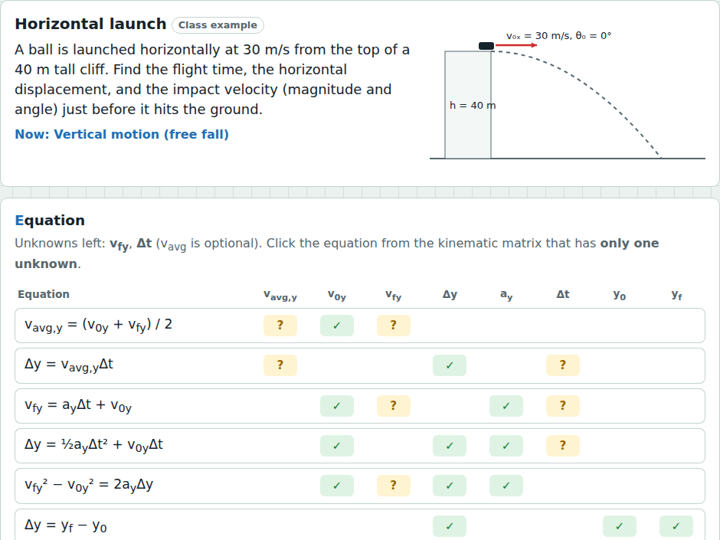
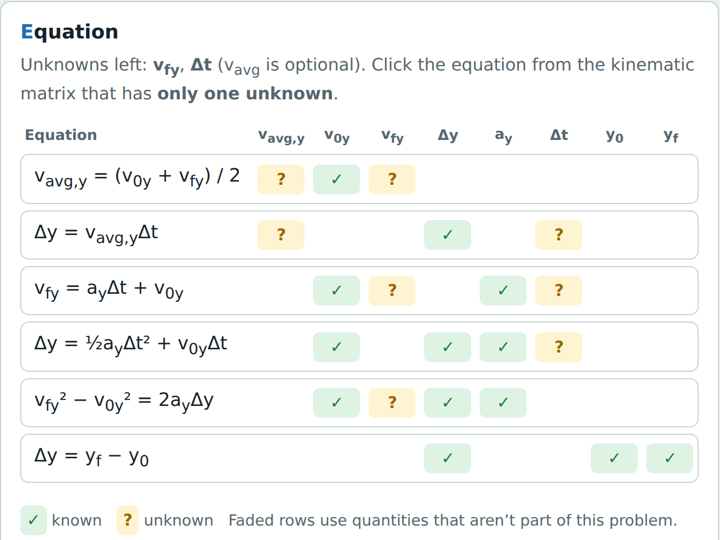
Updated GUESS Thumbnail

diff --git a/interactives/relationship-explorer.html b/interactives/relationship-explorer.html
@@ -130,7 +130,8 @@ tr.cur td{background:var(--accent-soft);font-weight:600}
 .pjgraphs svg{display:block;width:100%;height:auto}
 .pjgraphs text{font-family:var(--sans);fill:var(--muted)}
 .pjres{display:grid;grid-template-columns:1fr 1fr;gap:6px 18px}
-@media (max-width:620px){.pjres{grid-template-columns:1fr}}
+.pjres .sm2{visibility:hidden}
+@media (max-width:620px){.pjres{grid-template-columns:1fr}.pjres .sm2{visibility:visible}}
 .pjres .big{font-size:clamp(20px,2.8vw,28px)}
 details.der summary{cursor:pointer;font-weight:700;min-height:40px;display:flex;align-items:center;color:var(--accent);text-decoration:underline;text-underline-offset:3px}
 details.der summary:focus-visible{outline:3px solid var(--accent);outline-offset:2px;border-radius:4px}
@@ -646,11 +647,13 @@ function renderProjReadout(){
     h+='<label for="pjPx">Δx₂/Δx₁ =</label><input id="pjPx" type="text" autocomplete="off" spellcheck="false" value="'+esc(S.pjPred.x)+'"><button class="btn" id="predGo">Check</button></div>';
     if(S.pjFb)h+='<p class="fb bad">'+esc(S.pjFb)+'</p>';
   }else{
-    h+='<div class="pjres"><div><p class="big">'+esc(head)+' → t × '+esc(M.t.n===0?'1 (no change)':Ft.s)+'</p><p class="nums">t: '+fmt(A.t)+' s → '+fmt(B.t)+' s</p></div>';
-    h+='<div><p class="big">'+esc(head)+' → Δx × '+esc(Fx.s)+'</p><p class="nums">Δx: '+fmt(A.dx)+' m → '+fmt(B.dx)+' m</p></div></div>';
+    var tLine='t ∝ '+esc(M.t.n===0?'(no '+M.xs+')':relEq(relByN(M.t.n),M.xs,'t').replace('t = A',''))+' → t₂/t₁ = '+esc(M.t.n===0?'1':Ft.s);
+    var xLine='Δx ∝ '+esc(relEq(relByN(M.x.n),M.xs,'Δx').replace('Δx = A',''))+' → Δx₂/Δx₁ = '+esc(Fx.s);
+    h+='<div class="pjres"><div><p class="big">'+esc(head)+' → t × '+esc(M.t.n===0?'1 (no change)':Ft.s)+'</p><p class="nums">t: '+fmt(A.t)+' s → '+fmt(B.t)+' s</p>'+
+       '<p class="alg"><span>Scaling method:</span><span>'+tLine+'</span></p></div>';
+    h+='<div><p class="big">'+esc(head)+' → Δx × '+esc(Fx.s)+'</p><p class="nums">Δx: '+fmt(A.dx)+' m → '+fmt(B.dx)+' m</p>'+
+       '<p class="alg"><span class="sm2">Scaling method:</span><span>'+xLine+'</span></p></div></div>';
     if(S.pjFb)h+=S.pjFb;
-    h+='<p class="alg"><span>Scaling method:</span><span>t ∝ '+esc(M.t.n===0?'(no '+M.xs+')':relEq(relByN(M.t.n),M.xs,'t').replace('t = A',''))+' → t₂/t₁ = '+esc(M.t.n===0?'1':Ft.s)+'</span>'+
-       '<span>Δx ∝ '+esc(relEq(relByN(M.x.n),M.xs,'Δx').replace('Δx = A',''))+' → Δx₂/Δx₁ = '+esc(Fx.s)+'</span></p>';
   }
   $('ro').innerHTML=h;
 }

diff --git a/index.html b/index.html
@@ -38,7 +38,7 @@
         <article class="card accent g"><div class="body">
           <h3>Interactives</h3>
           <p>Labs and animations made for our units. Change the starting conditions, press Play, and watch the graphs build with the motion.</p>
-          <ul><li>Constant acceleration, projectiles and two-part motion</li><li>Projectile problems as pieces of one parabola</li><li>Hit the target: projectile collisions</li><li>Proportional reasoning</li><li>GUESS problem solving</li><li>Velocity vs. displacement</li><li>Broom ball force lab</li></ul>
+          <ul><li>Constant acceleration, projectiles and two-part motion</li><li>Projectile problems as pieces of one parabola</li><li>Hit the target: projectile collisions</li><li>GUESS problem solving</li><li>Proportional reasoning</li><li>Velocity vs. displacement</li><li>Broom ball force lab</li></ul>
           <div class="links"><a class="btn" href="interactives.html">Open Interactives</a></div>
         </div></article>
         <article class="card accent r"><div class="body">
@@ -62,6 +62,8 @@
       <h2 id="labs-h">Our interactive labs</h2>
       <p class="section-note">Open in any browser on a computer, tablet or phone.</p>
       <div class="minis">
+        <article class="card"><a href="interactives/guess-practice.html" tabindex="-1" aria-hidden="true"><img src="images/guess-practice.png" alt="" loading="lazy"></a>
+          <div class="body"><h3><a class="link" href="interactives/guess-practice.html">GUESS problem solving</a></h3></div></article>
         <article class="card"><a href="interactives/relationship-explorer.html" tabindex="-1" aria-hidden="true"><img src="images/relationship-explorer.png" alt="" loading="lazy"></a>
           <div class="body"><h3><a class="link" href="interactives/relationship-explorer.html">Proportional Reasoning</a></h3></div></article>
 
@@ -85,8 +87,6 @@
 
         <article class="card"><a href="interactives/broom-ball.html" tabindex="-1" aria-hidden="true"><img src="images/broom-ball.png" alt="" loading="lazy"></a>
           <div class="body"><h3><a class="link" href="interactives/broom-ball.html">Broom ball force lab</a></h3></div></article>
-        <article class="card"><a href="interactives/guess-practice.html" tabindex="-1" aria-hidden="true"><img src="images/guess-practice.png" alt="" loading="lazy"></a>
-          <div class="body"><h3><a class="link" href="interactives/guess-practice.html">GUESS problem solving</a></h3></div></article>
 
       
       </div>

diff --git a/interactives.html b/interactives.html
@@ -35,6 +35,16 @@
       <p class="section-note">Open in any browser on a computer, tablet or phone.</p>
       <div class="labs">
         <!-- ===== To add a new interactive: copy one <article> block, then change the links, image, title and text ===== -->
+        <article class="card lab-card text-first">
+          <a class="cover" href="interactives/guess-practice.html" tabindex="-1" aria-hidden="true">
+            <img src="images/guess-practice.png" alt="" loading="lazy">
+          </a>
+          <div class="body">
+            <h3>GUESS problem solving</h3>
+            <p>Practice Given, Unknown, Equation, Solve, Substitute: sketch the motion map and graphs, list the givens, pick the kinematic equation with one unknown, rearrange it, then substitute. Class examples and practice problems, including projectiles.</p>
+            <div class="links"><a class="btn" href="interactives/guess-practice.html">Open the lab</a></div>
+          </div>
+        </article>
         <article class="card lab-card">
           <a class="cover" href="interactives/relationship-explorer.html" tabindex="-1" aria-hidden="true">
             <img src="images/relationship-explorer.png" alt="" loading="lazy">
@@ -123,16 +133,6 @@
           </div>
         </article>
 
-        <article class="card lab-card">
-          <a class="cover" href="interactives/guess-practice.html" tabindex="-1" aria-hidden="true">
-            <img src="images/guess-practice.png" alt="" loading="lazy">
-          </a>
-          <div class="body">
-            <h3>GUESS problem solving</h3>
-            <p>Practice Given, Unknown, Equation, Solve, Substitute: sketch the motion map and graphs, list the givens, pick the kinematic equation with one unknown, rearrange it, then substitute. Class examples and practice problems, including projectiles.</p>
-            <div class="links"><a class="btn" href="interactives/guess-practice.html">Open the lab</a></div>
-          </div>
-        </article>
 
       
       </div>

diff --git a/site.css b/site.css
@@ -51,7 +51,7 @@ h2 { font-size: 1.5rem; margin: 0 0 4px; }
 .section-note { color: var(--muted); margin: 0 0 18px; max-width: 72ch; }
 
 /* cards */
-.labs { display: grid; grid-template-columns: repeat(auto-fill, minmax(min(100%, 420px), 1fr)); gap: 20px; }
+.labs { display: grid; grid-template-columns: repeat(auto-fill, minmax(min(100%, 300px), 1fr)); gap: 18px; }
 .anims { display: grid; grid-template-columns: repeat(auto-fill, minmax(min(100%, 250px), 1fr)); gap: 16px; }
 .minis { display: grid; grid-template-columns: repeat(auto-fill, minmax(min(100%, 200px), 1fr)); gap: 14px; }
 .links3 { display: grid; grid-template-columns: repeat(auto-fill, minmax(min(100%, 300px), 1fr)); gap: 18px; }
@@ -97,3 +97,8 @@ footer { padding: 40px 0 48px; color: var(--muted); font-size: 0.95rem; }
 .card.locked a { cursor: default; text-decoration: none; }
 .lockmsg { display: inline-flex; align-items: center; gap: 6px; font-weight: 700; color: var(--muted);
   border: 2px dashed var(--line); border-radius: 8px; padding: 6px 12px; }
+
+/* a card whose title and description sit above its image */
+.lab-card.text-first .body { order: -1; flex: 0 0 auto; }
+.lab-card.text-first a.cover { margin-top: auto; }
+.lab-card.text-first img { border-bottom: 0; border-top: 1px solid var(--line); }
